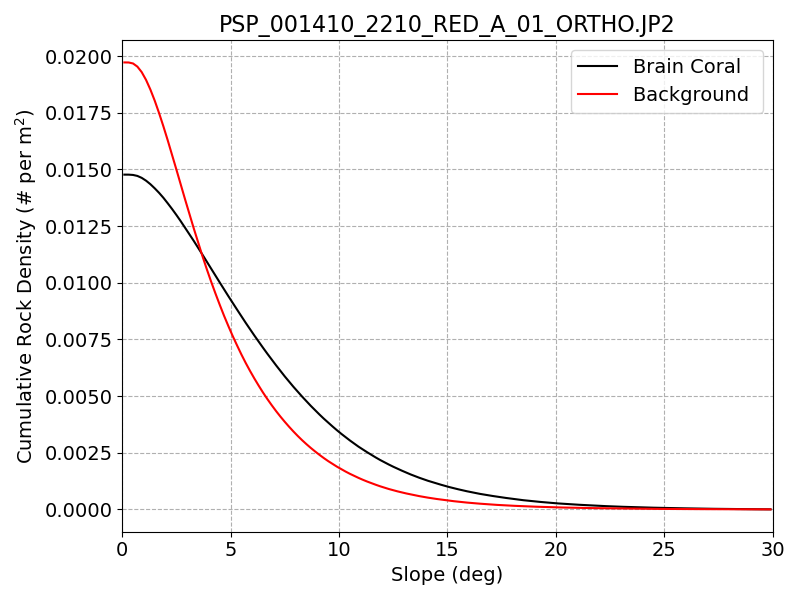
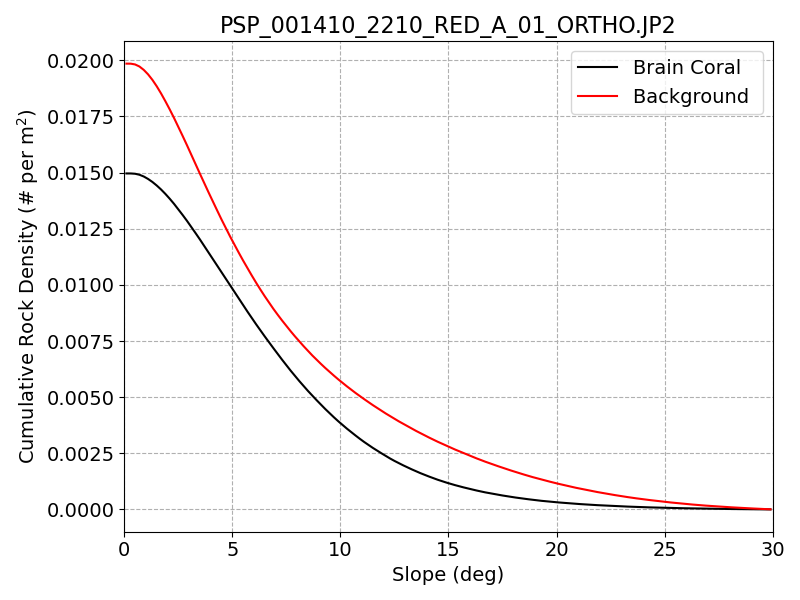
new rock masks

diff --git a/mask2dem.py b/mask2dem.py
@@ -144,7 +144,7 @@ if __name__ == "__main__":
 
         # compute elevation of rock
         elevation = np.nanmean(dem[region.coords[:,0], region.coords[:,1]])
-    
+
         # compute relative elevation of rock within bbox
         median_elevation = np.nanmedian(dem[ymin:ymax,xmin:xmax])
         #rel_elevation = elevation - mean_elevation
@@ -166,7 +166,7 @@ if __name__ == "__main__":
 
         # compute gradient of surface minus plane
         diff_dem = dem[ymin:ymax,xmin:xmax] - plane_elevation
-        ddx, ddy = np.gradient(dem[ymin:ymax,xmin:xmax])
+        ddx, ddy = np.gradient(diff_dem)
         mag = np.sqrt(ddx**2 + ddy**2)
 
         # compute relative elevation of rock after plane fit

diff --git a/mask2density.py b/mask2density.py
@@ -152,5 +152,5 @@ if __name__ == "__main__":
     ax[1].set_ylim([0, 90])
     plt.tight_layout()
     plt.savefig(os.path.join(outdir,'rock_density.png'))
-    plt.show()
     plt.close()
+    print(f"Saved {os.path.join(outdir,'rock_density.png')}")
